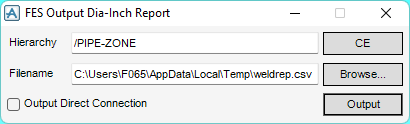
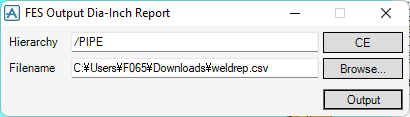
Fix usage of fesweldrep

diff --git a/docs/mac/fesweldrep/README.md b/docs/mac/fesweldrep/README.md
@@ -21,9 +21,3 @@ show !!fesweldrep
 - **Filename**
 
   Filename of the output file
-
-- **Output Direct Connection**
-
-  If true, welding points that directly connect to something else are also output.
-
-!> If you output them, you need to be careful not to double-count the number of welding points.
